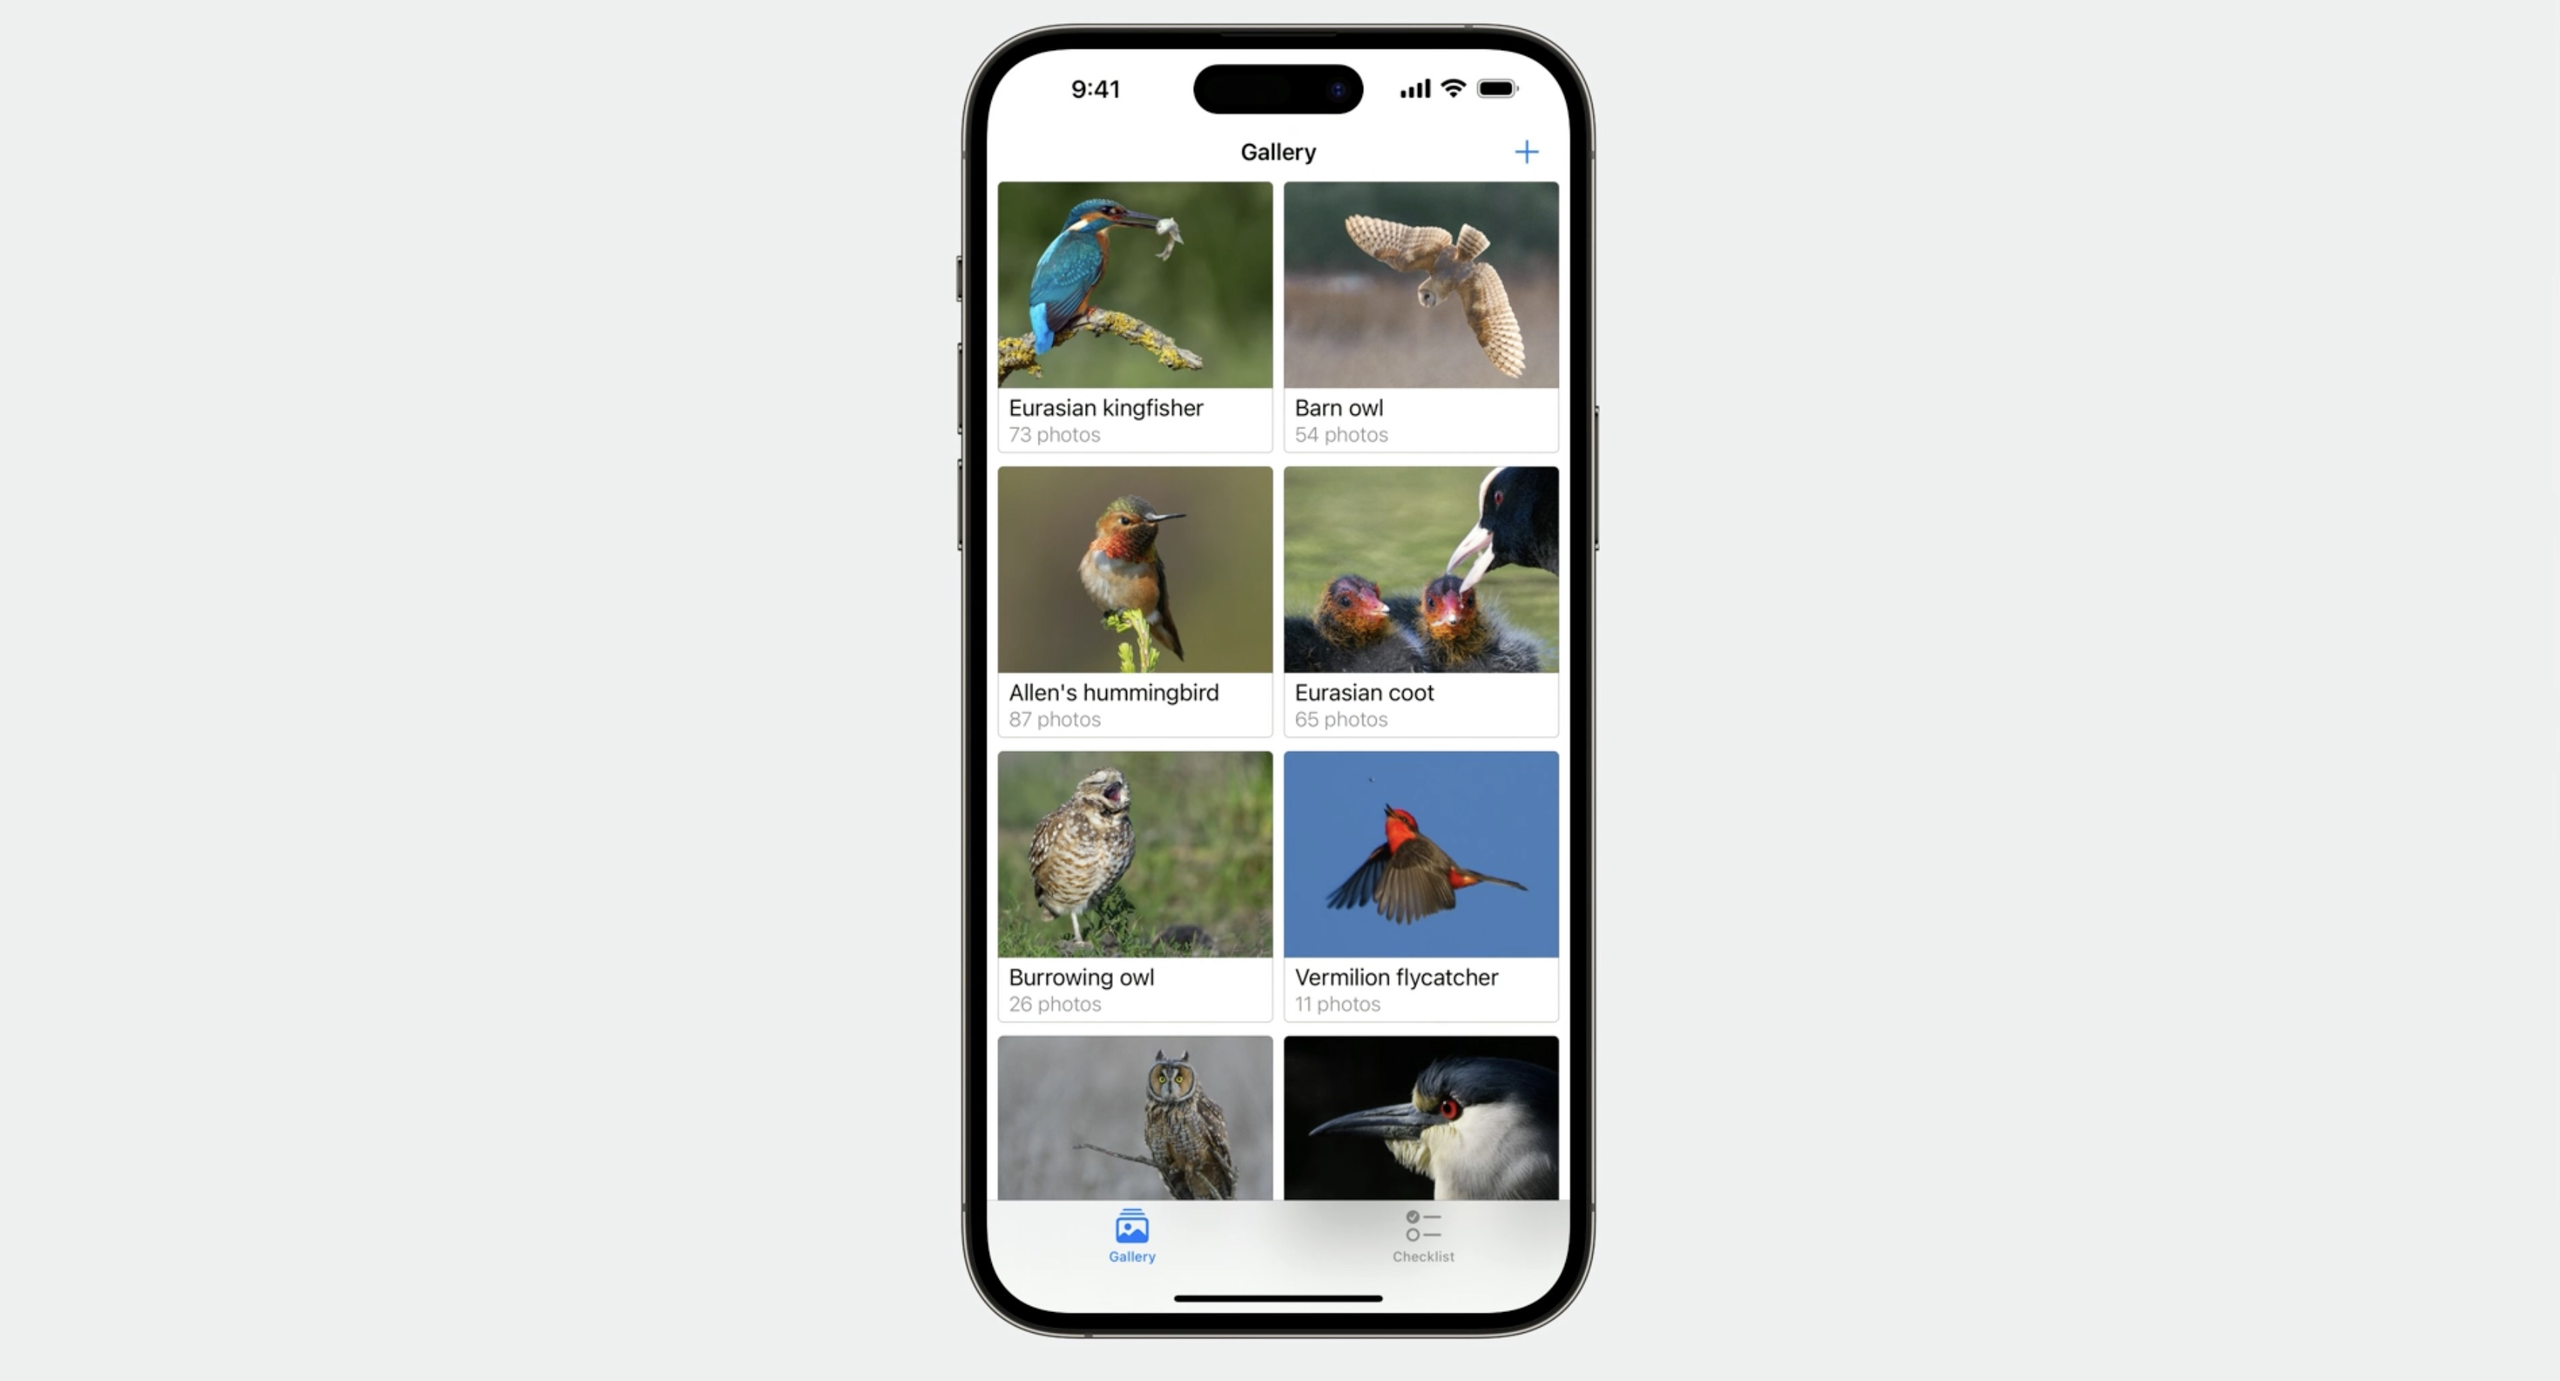
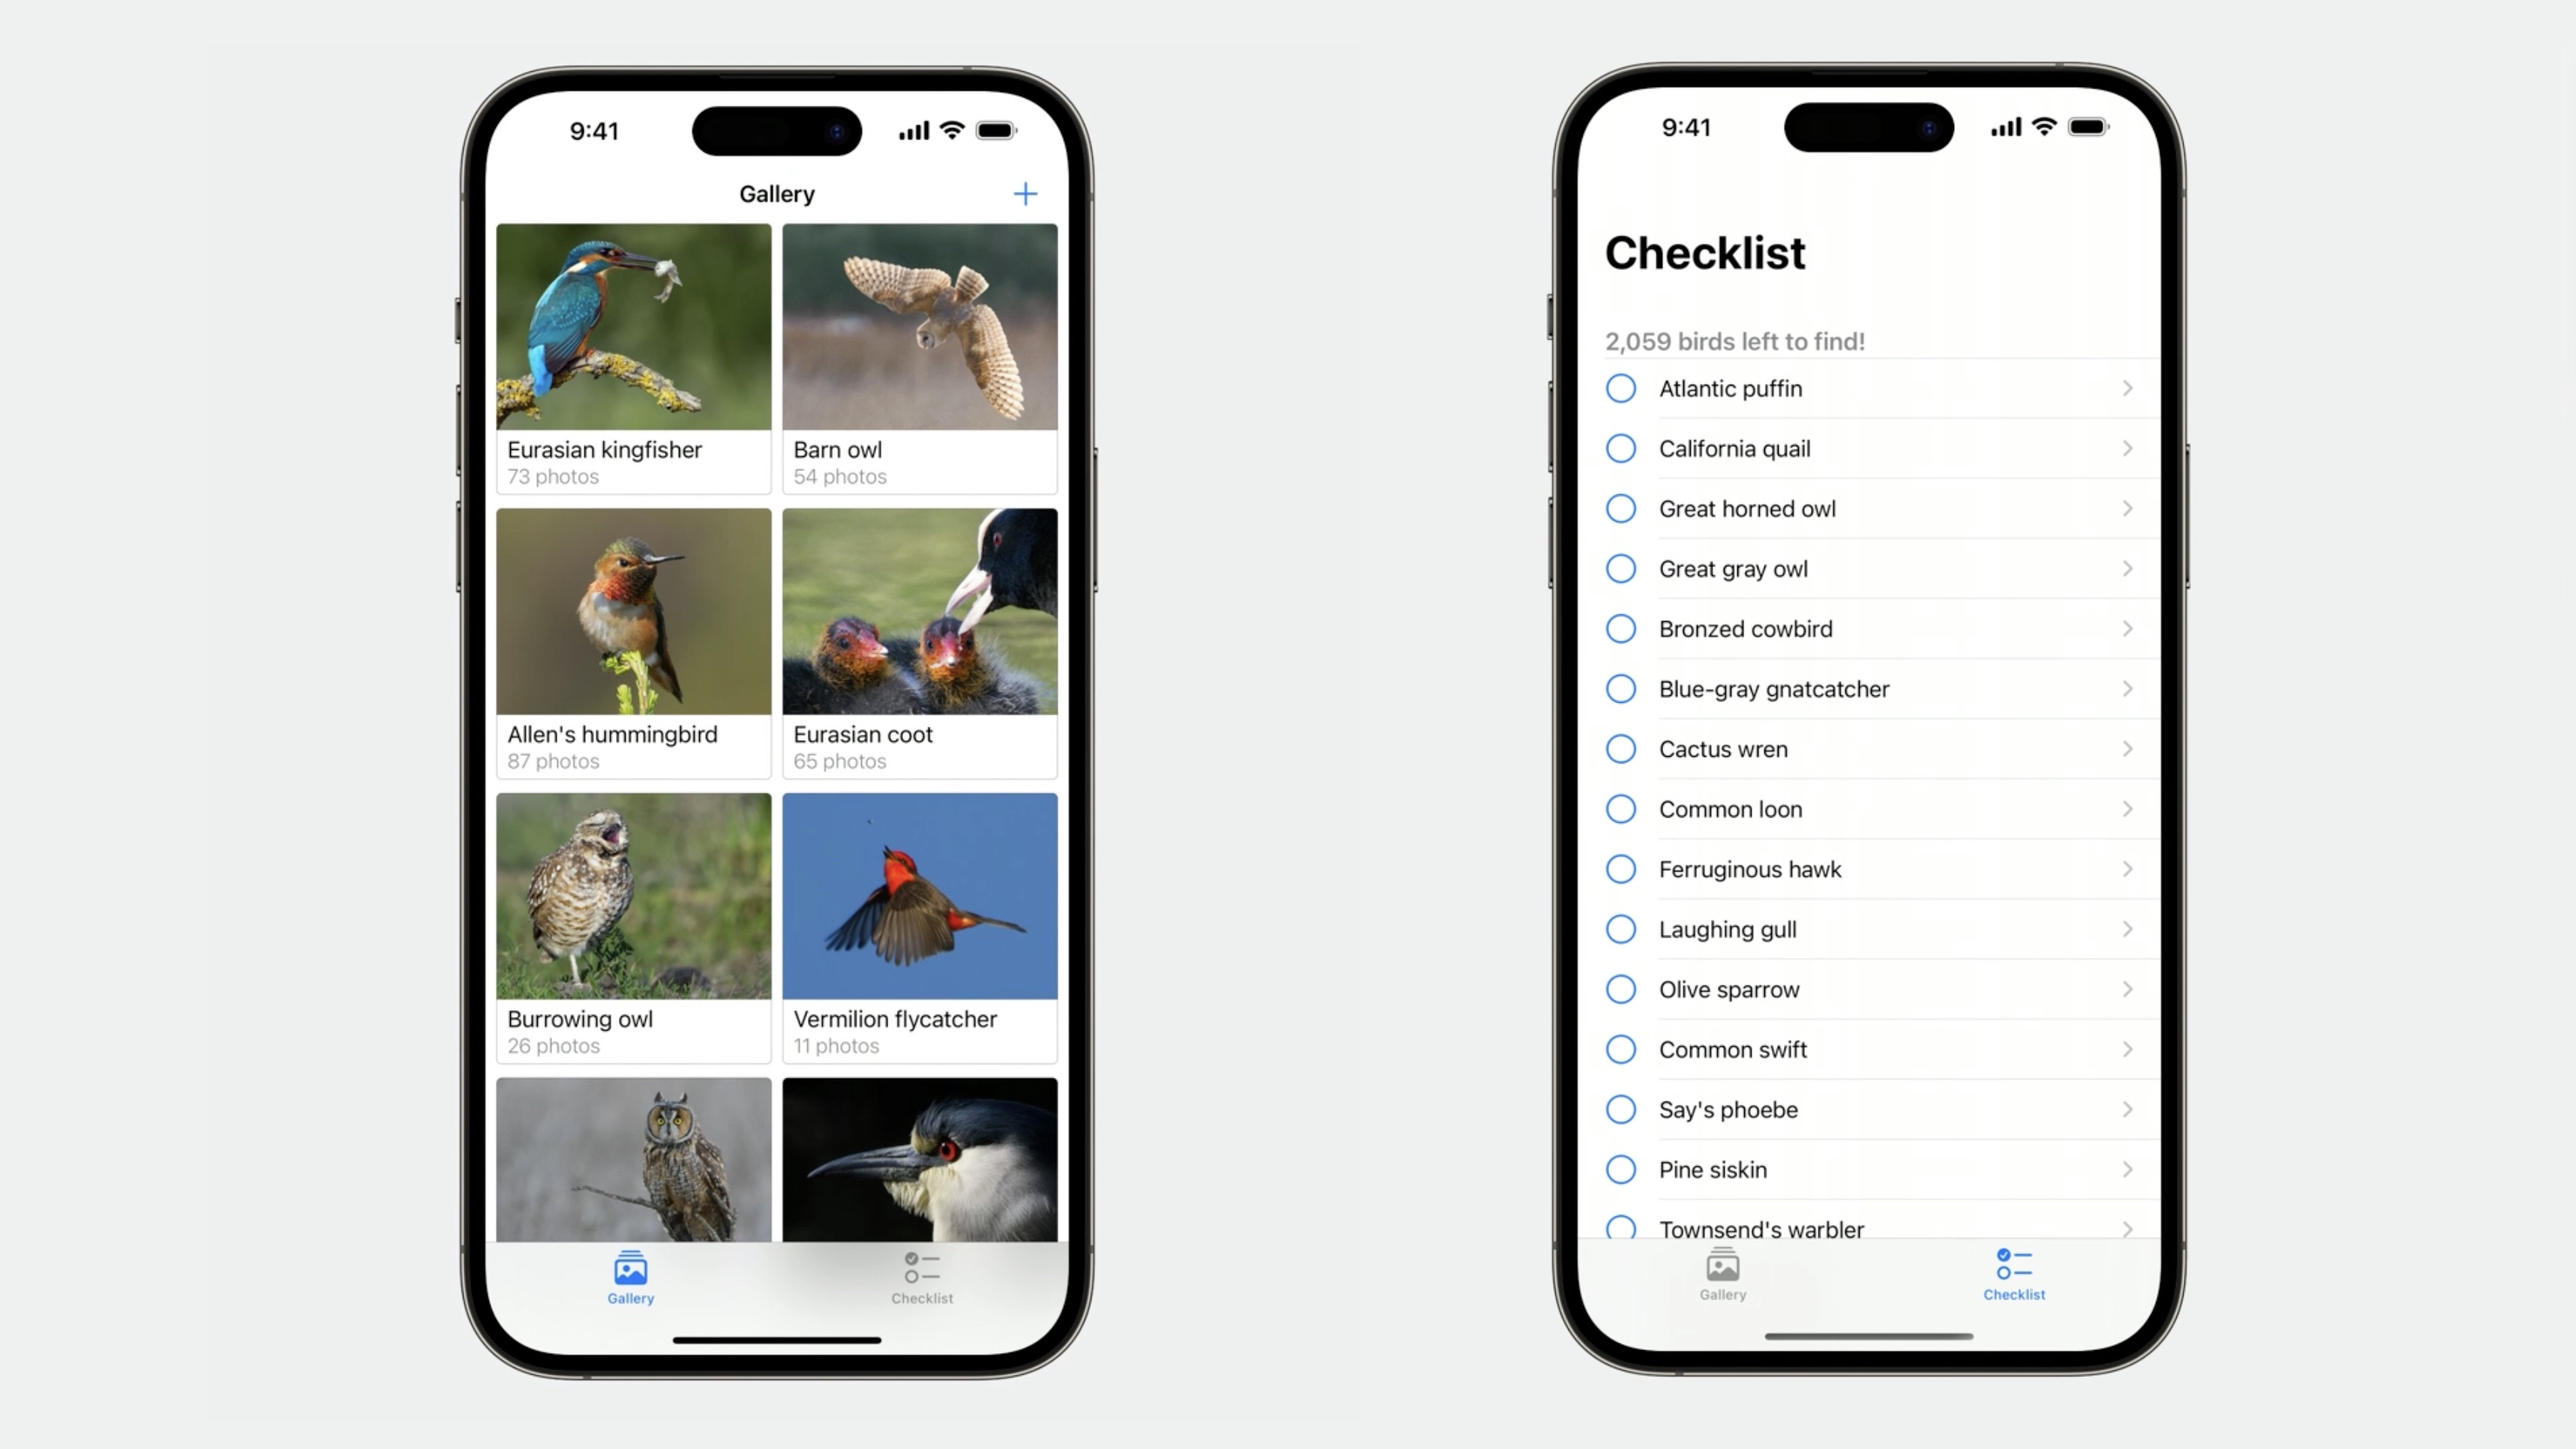
add

diff --git a/content/notes/wwdc23/10250.md b/content/notes/wwdc23/10250.md
@@ -9,17 +9,210 @@ contributors: multitudes
 [22:03 - Running the updated project](https://developer.apple.com/videos/play/wwdc2023/10250/?time=1323)
 
 ## Intro
+I would like to show you how the improvements in Xcode Playgrounds make it easier to prototype new features in your project. 
 
-- Rapid iterations
-- Exercise rare code paths
-- Try out new dependencies 
-
-
+- Rapid iterations. First of all, they allow you to skip rebuilding and relaunching the project whenever you want to prototype a new feature or simply try out a small change in your code. 
+- Exercise rare code paths. They also make it much easier to execute code that otherwise would be quite difficult to reach, like the logic responsible for generating an order summary in a shopping app.  
+- Try out new dependencies. It's also a perfect environment for trying out code before introducing new dependencies to your project.
 
 ![Rapid iterations][iterations]
 
 [iterations]: ../../../images/notes/wwdc23/10250/iterations.jpg
 
+I'd like to show you how Xcode Playgrounds are helping me in my project. I've been working on a small app that's meant to help me with my wildlife photography. At the moment, my app helps me with keeping track of the species that I've already found and photographed. 
+
+I want to introduce a new tab for a checklist view. I already started implementing the view. Each bird has a checkbox, which will allow me to track my progress. However, it would be great to narrow this list down a bit.
+
+```swift
+extension ChecklistView {
+	
+	var birdsToShow: [Bird] {
+		// TODO: Narrow down the list of birds to find. 
+		let birdProvider = BirdProvider(region: .northAmerica)
+		return birdProvider.birds
+	}
+}
+```
+
+To do that, I will have to adjust the birdsToShow computed property in my custom ChecklistView. At the moment, it simply creates my BirdProvider type configured for North America and returns all the bird species found on the whole continent. 
+
+To avoid the frequent rebuilding and relaunching the project and then navigating to the ChecklistView to see my changes, I will try to adjust this code in an Xcode Playground. I will start by adding a new playground to my project.
+
+![Rapid iterations][iterations2]
+
+[iterations2]: ../../../images/notes/wwdc23/10250/iterations2.jpg
+
+This is an iOS app, so I'll stick with the iOS templates. I'll type "playground" in the filter bar and select a blank playground.
+
+To iterate even faster, I'll switch to "Automatically run" in the menu that shows up when I long click the run button on the bottom bar.
+
+![Rapid iterations][iterations3]
+
+[iterations3]: ../../../images/notes/wwdc23/10250/iterations3.jpg
+
+This causes the playground to automatically execute the whole code whenever I stop making changes. 
+
+Notice that the playgrounds added to projects have two settings enabled by default: Build Active Scheme and Import App Types. They will ensure that the active scheme is built before each playground execution and that the app target modules are automatically imported. This makes it much easier to work with the types defined within your project. 
+
+![Rapid iterations][iterations4]
+
+[iterations4]: ../../../images/notes/wwdc23/10250/iterations4.jpg
+
+Let's start by declaring a BirdProvider instance like we saw in the birdsToShow property of my ChecklistView.
+
+The result sidebar to the right of the editor shows me that this declaration has generated a playground result. I can use the inline result toggle to see more details.
+
+The inline result shows the details of this BirdProvider instance along with its two properties: the birds array and the provided region.
+
+![Rapid iterations][iterations5]
+
+[iterations5]: ../../../images/notes/wwdc23/10250/iterations5.jpg
+
+Now in Xcode 15, each row also has a type information label, which shows a short summary of the type, and I can use the tooltips for each row to see more details.
+
+For example, the tooltip tells me that the BirdProvider type comes from my app module and that the region enum was defined within that struct. Let's expand the array row to see more details about the birds.
+
+Notice that when I start to interact with the inline result view, Xcode 15 highlights the source code that produced the result. In this case, the view displays the value assigned to the birdProvider constant. This makes it much easier to understand the displayed values. Let's take a closer look at the array elements.
+
+![Rapid iterations][iterations6]
+
+[iterations6]: ../../../images/notes/wwdc23/10250/iterations6.jpg
+
+We saw the nice summaries for the region and birds array properties, but by default, the rows representing each bird only tell us about the array indexes. 
+
+That's because the custom Bird type has no description defined. We can improve this by making the Bird type conform to CustomStringConvertible protocol. I could add an extension here in a playground or in its Sources directory. Both these options would only affect the Bird type in the playground's scope, and we wouldn't get the nice new descriptions in other places that rely on them, like the debugger. That's why I'll add the extension in the file that defines the Bird type.
+
+```swift
+extension Bird: CustomStringConvertible {
+	public var description: String {
+		return "\ (commonName) (\(scientificName))"
+	}
+}
+```
+
+![Rapid iterations][iterations7]
+
+[iterations7]: ../../../images/notes/wwdc23/10250/iterations7.jpg
+
+With the new description definition, each row should show me the common and scientific name of the bird. Let's go back to the playground and see the new description in action.
+
+In the automatic mode of playground execution, the playground will automatically re-execute when you reopen it. Let's expand the birds array row again to check the descriptions.
+
+![Rapid iterations][iterations8]
+
+[iterations8]: ../../../images/notes/wwdc23/10250/iterations8.jpg
+
+This is much better. Now it's clear what the rows represent without expanding them, but let's take a look at other properties of the Bird type.
+
+I have already found and photographed some of these birds, and you can see that some of them already have the photo property, like this Atlantic puffin.
+
+Once I click on its row, the photo is displayed in the new split view-based user interface, which allows me to see the structure of the object along with the preview.
+
+![Rapid iterations][iterations9]
+
+[iterations9]: ../../../images/notes/wwdc23/10250/iterations9.jpg
+
+By default, there is no such preview for my custom Bird type when I click on its row. It would be great to already see the photo here, as I'm not that familiar with all the species names. 
+
+![Rapid iterations][iterations10]
+
+[iterations10]: ../../../images/notes/wwdc23/10250/iterations10.jpg
+
+To achieve that, I can use the CustomPlaygroundDisplayConvertible protocol. As the name of the protocol suggests, this conformance only affects the playground representation, so this time, I'll add the extension in the playground's Sources directory.
+
+I'll import the app module to access the Bird type and add a simple extension that returns the photo property as the playgroundDescription.
+
+```swift
+import Foundation
+import SampleBirdingApp
+
+extension Bird: CustomPlaygroundDisplayConvertible {
+	public var playgroundDescription: Any {
+		return photo as Any
+	}
+}
+```
+
+![Rapid iterations][iterations11]
+
+[iterations11]: ../../../images/notes/wwdc23/10250/iterations11.jpg
+
+Notice that I'm explicitly casting photo to Any in the return statement. Without it, the compiler would warn me that we are losing an important piece of information about the value being an optional. 
+
+This is fine in this case, as Xcode Playgrounds handles optionals by only creating a custom description for objects that don't return nil in the playgroundDescription property. Let's go back to the playground again to check the new descriptions.
+
+In Xcode 15, the playgroundDescription returned by types conforming to CustomPlaygroundDisplayConvertible will be displayed in the split view along the object's structure.
+
+Now, the birds that already have a photo will quickly show it without the need of expanding the row. 
+
+![Rapid iterations][iterations12]
+
+[iterations12]: ../../../images/notes/wwdc23/10250/iterations12.jpg
+
+
+This will make it much easier to work with large collections of this custom type. But today, I'd like to focus on birds that don't have the photos yet. Let's close this inline result and filter out all the birds that have a photo already.
+
+You can see that those two sidebar annotations look a bit different. That's because there are multiple expressions on the new line. I can click on the new control to see the familiar summaries for each expression.
+
+Hovering over the inline result toggles highlights their source code ranges. This makes it clear that the array is the result assigned to the birdsToFind constant and true is the latest value produced by the closure passed to the filter function.
+
+![Rapid iterations][iterations13]
+
+[iterations13]: ../../../images/notes/wwdc23/10250/iterations13.jpg
+
+The result sidebar tells me that the number of all birds that I'm yet to photograph is still over 1,800, which is quite intimidating. I'd like to make it lower by focusing on a smaller group of birds, for example owls.
+
+The array only has five elements now, which is way more encouraging. I'd like to try out my custom ChecklistView with this small group of birds. To do that, I'll create a ChecklistView instance and add each bird one by one.
+
+Let's open the inline result for the ChecklistView.
+
+As a UIView subclass, it now also shows a few properties along with the snapshot. I can switch to the Value history mode, which now also uses the new split-view-based user interface.
+
+![Rapid iterations][iterations14]
+
+[iterations14]: ../../../images/notes/wwdc23/10250/iterations14.jpg
+
+This allows me to see what the ChecklistView looked like in each loop iteration.
+
+It actually helped me find a problem with my view, which incorrectly says "birds" in the header for just one bird. 
+
+![Rapid iterations][iterations15]
+
+[iterations15]: ../../../images/notes/wwdc23/10250/iterations15.jpg
+
+I should be able to fix this by adjusting the strings defined in the new String Catalog.
+
+The first row seems to be the one that is used in the header of my Checklist View. I'll bring up the context menu and select Vary By Plural.
+
+![Rapid iterations][iterations16]
+
+[iterations16]: ../../../images/notes/wwdc23/10250/iterations16.jpg
+
+Once I do that, the affected rows change their state to "Needs review." I'll adjust the singular form of this string.
+
+![Rapid iterations][iterations16a]
+
+[iterations16a]: ../../../images/notes/wwdc23/10250/iterations16a.jpg
+
+To learn more about the new String Catalogs, 
+
+![Rapid iterations][iterations17]
+
+[iterations17]: ../../../images/notes/wwdc23/10250/iterations17.jpg
+
+make sure to check: 
+
+[Discover String Catalogs](https://developer.apple.com/videos/play/wwdc2023/10155/)
+
+Let's go back to the playground and see what the checklist looks like now with this change. The headers look correct in each loop iteration. I can close this inline result now.
+
+I think my ChecklistView is ready to use. I'll quickly bring the code that we used to narrow down the list of birds to my project.
+
+I'll copy these three lines to the birdsToShow property in my ChecklistView. I will also add a return statement with the new, much smaller array of birds.
+
+![Rapid iterations][iterations18]
+
+[iterations18]: ../../../images/notes/wwdc23/10250/iterations18.jpg
 
 ## Resources
 [Have a question? Ask with tag wwdc2023-10250](https://developer.apple.com/forums/create/question?&tag1=266&tag2=237&tag3=665030)  
